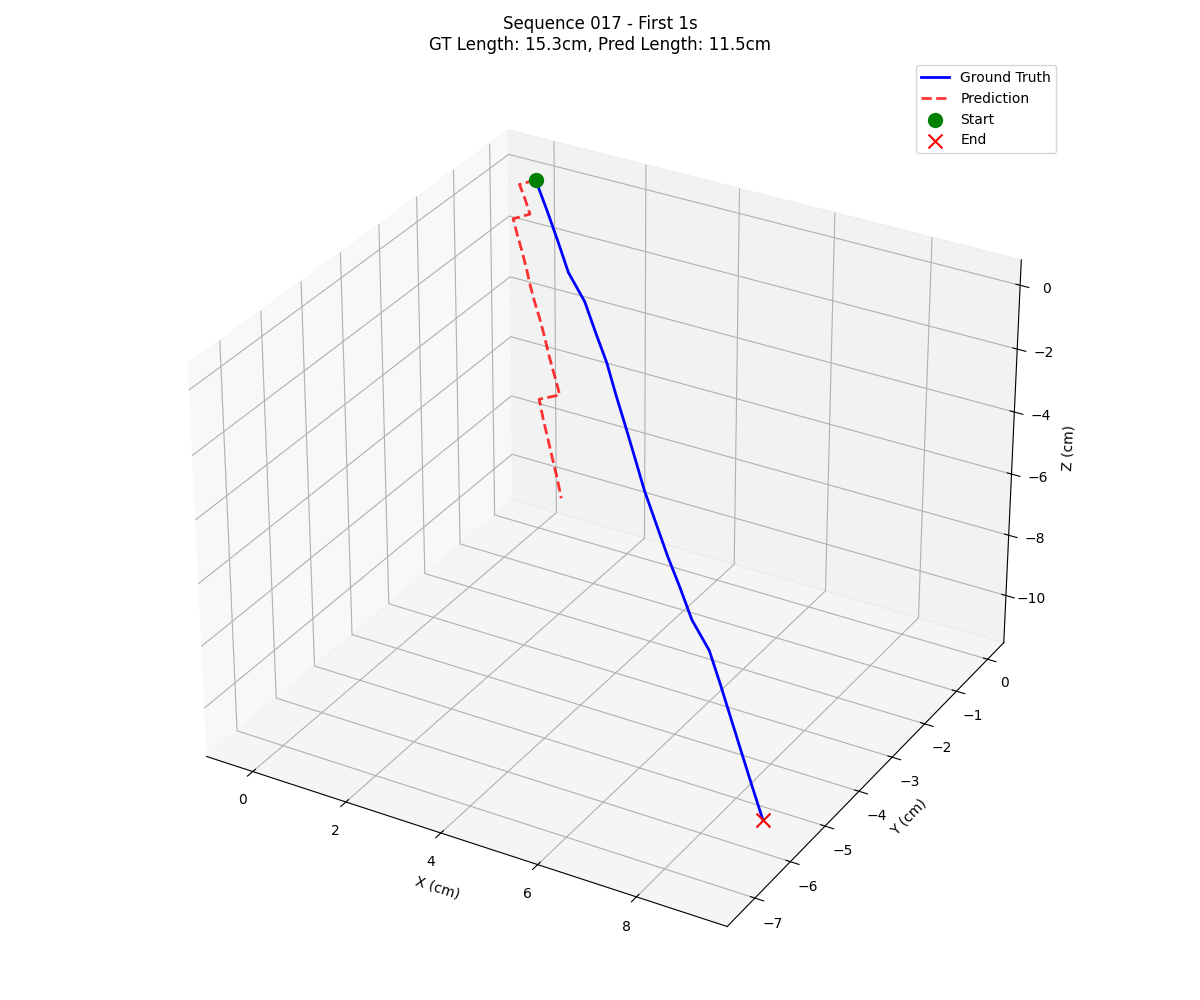
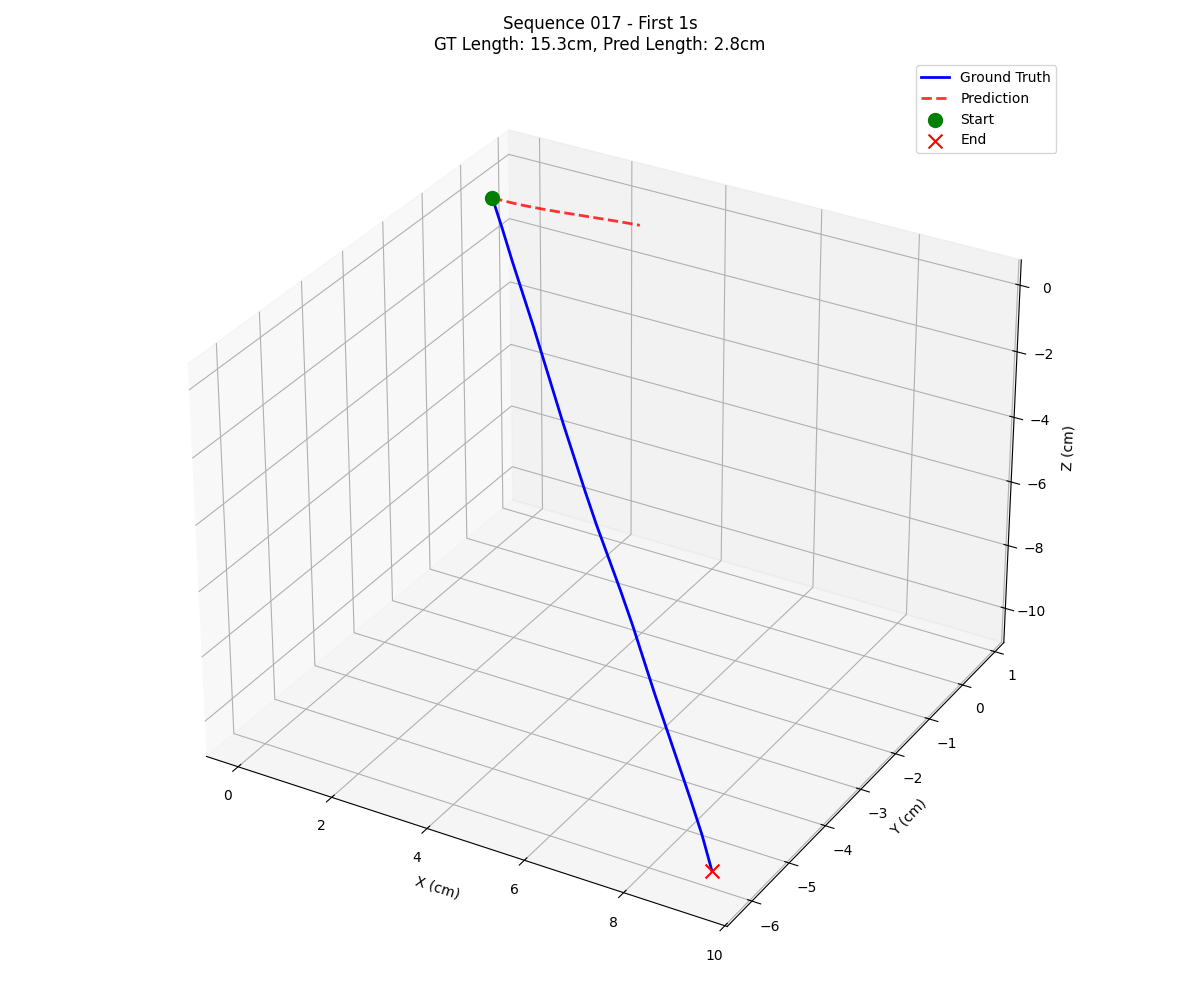
1. Training script: Removed per-batch normalization that was making all batches identical   2. Evaluation script: Fixed sequence assignment to properly group windows by sequence
The fixes ensure:
  - The model sees actual data variations instead of normalized zeros
  - Evaluation plots will show different trajectories for different sequences
  - Each sequence's windows are properly grouped together

diff --git a/evaluate_stable_model.py b/evaluate_stable_model.py
@@ -132,7 +132,7 @@ def integrate_trajectory(relative_poses, initial_pose=None):
     return absolute_positions, absolute_rotations
 
 
-def evaluate_model(model, test_loader, device, output_dir, test_sequences):
+def evaluate_model(model, test_loader, device, output_dir, test_sequences, test_dataset):
     """Evaluate model on test data"""
     os.makedirs(output_dir, exist_ok=True)
     
@@ -197,8 +197,11 @@ def evaluate_model(model, test_loader, device, output_dir, test_sequences):
                 }
                 all_results.append(result)
                 
-                # Assign to appropriate sequence (simple round-robin assumption)
-                seq_idx = (batch_idx * test_loader.batch_size + i) % len(test_sequences)
+                # Determine sequence ID from file prefix
+                # This assumes test files are ordered by sequence (e.g., 0-99 for seq 016, 100-199 for seq 017, etc.)
+                file_prefix = int(batch['file_prefix'][i])
+                samples_per_seq = len(test_dataset) // len(test_sequences)
+                seq_idx = min(file_prefix // samples_per_seq, len(test_sequences) - 1)
                 seq_id = test_sequences[seq_idx]
                 sequence_results[seq_id].append(result)
     
@@ -549,7 +552,7 @@ def main():
     test_sequences = ['016', '017', '018', '019']  # From test_sequences.txt
     
     # Evaluate
-    results = evaluate_model(model, test_loader, device, args.output_dir, test_sequences)
+    results = evaluate_model(model, test_loader, device, args.output_dir, test_sequences, test_dataset)
     
     print("\n✅ Evaluation complete!")
 

diff --git a/src/data/components/aria_latent_dataset.py b/src/data/components/aria_latent_dataset.py
@@ -75,7 +75,8 @@ class AriaLatentDataset(Dataset):
         batch = {
             'visual_features': visual_features,
             'imu_features': imu_features,
-            'poses': relative_poses  # Changed key to match training dataset
+            'poses': relative_poses,  # Changed key to match training dataset
+            'file_prefix': file_prefix  # Add file prefix for sequence identification
         }
         
         return batch
